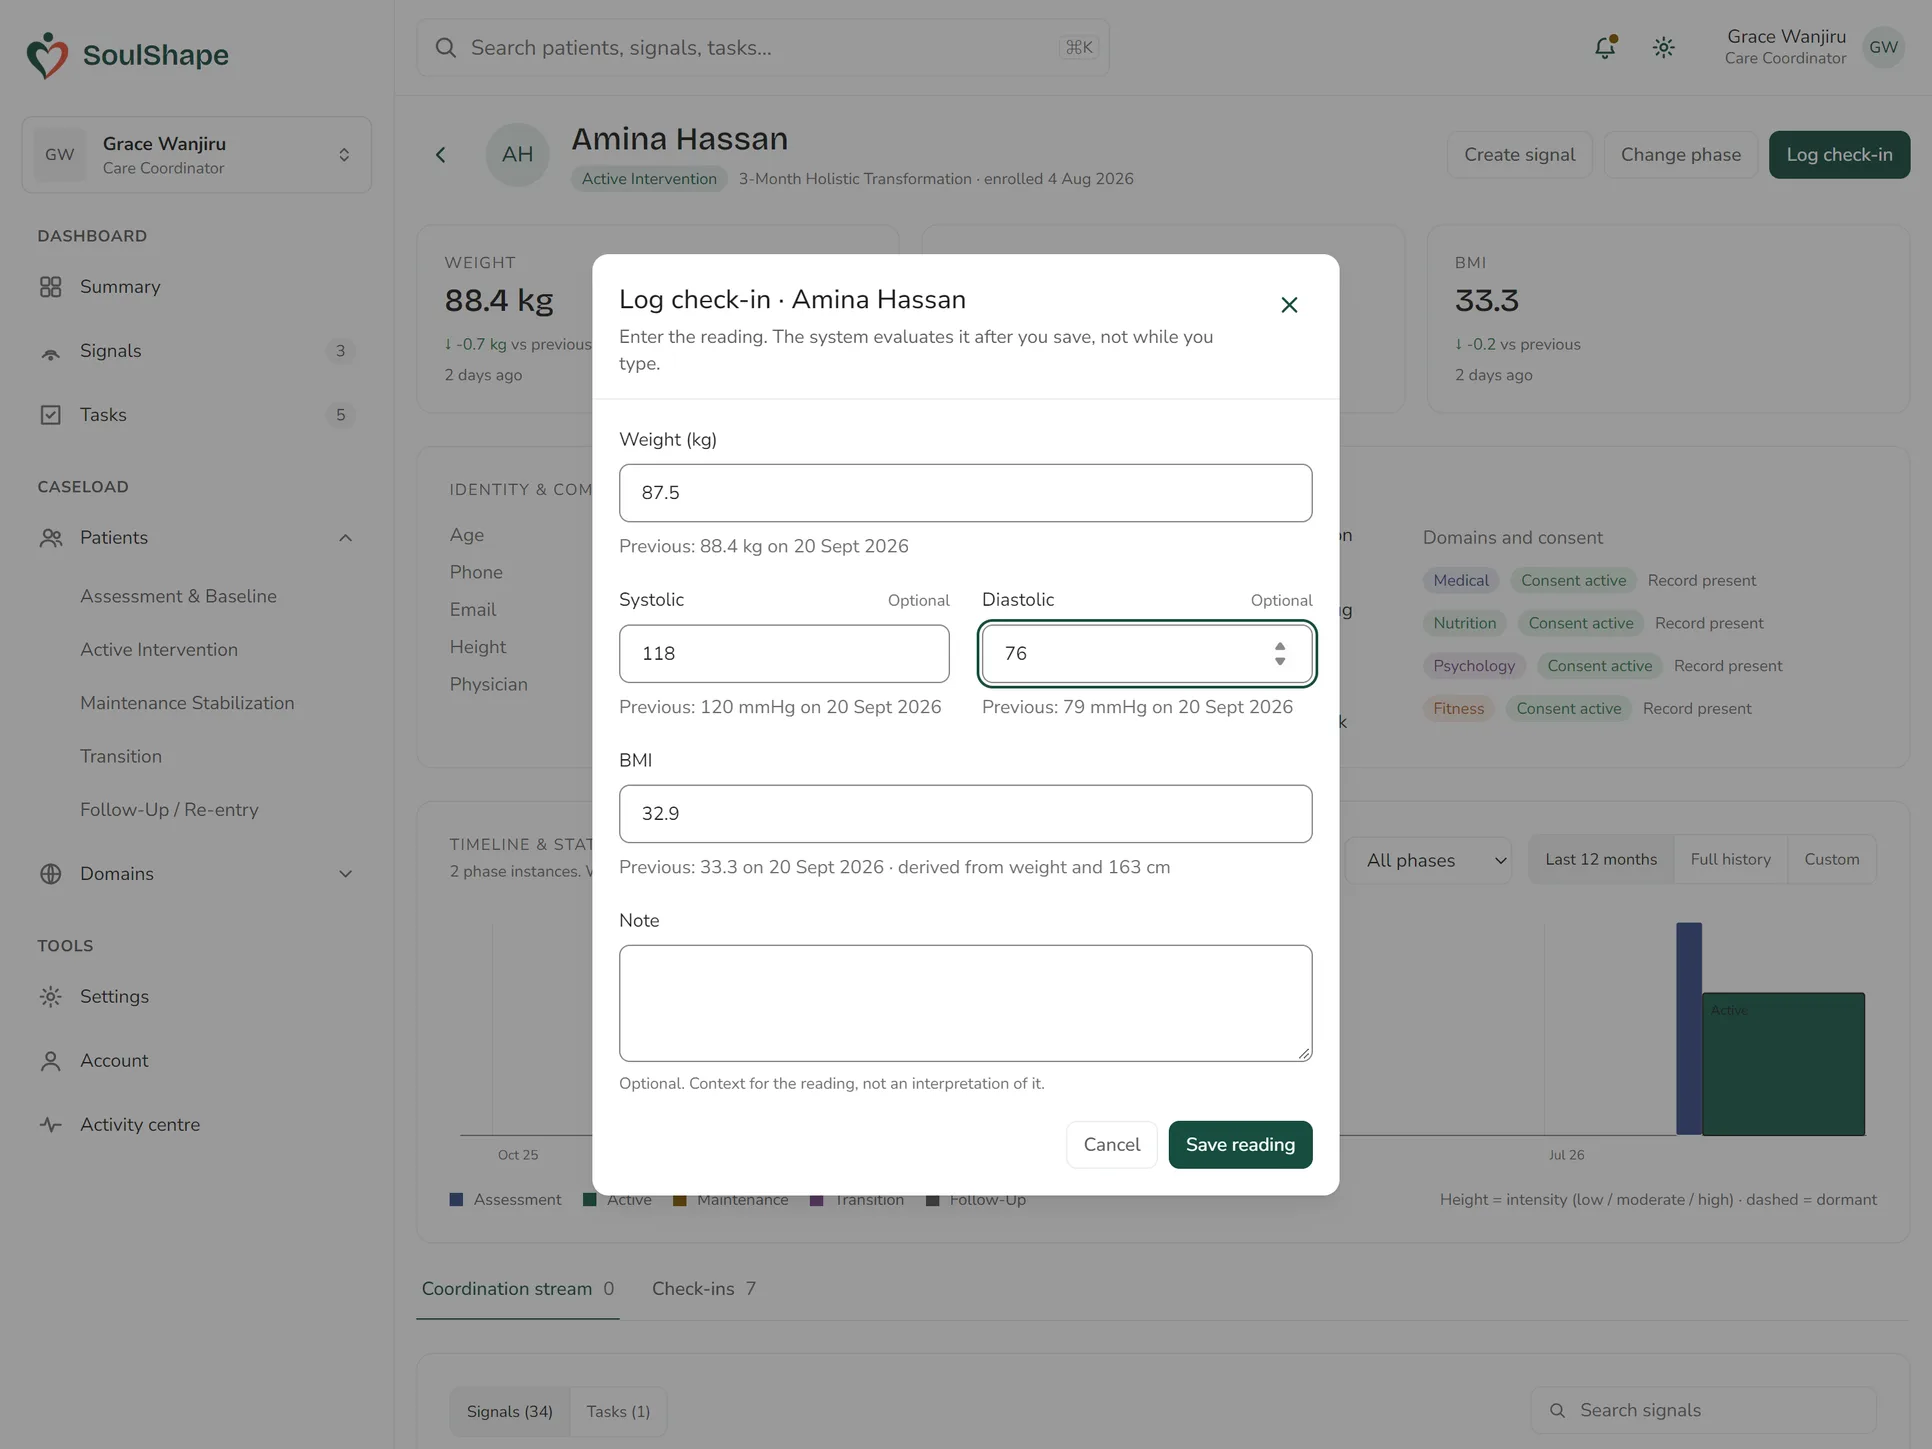
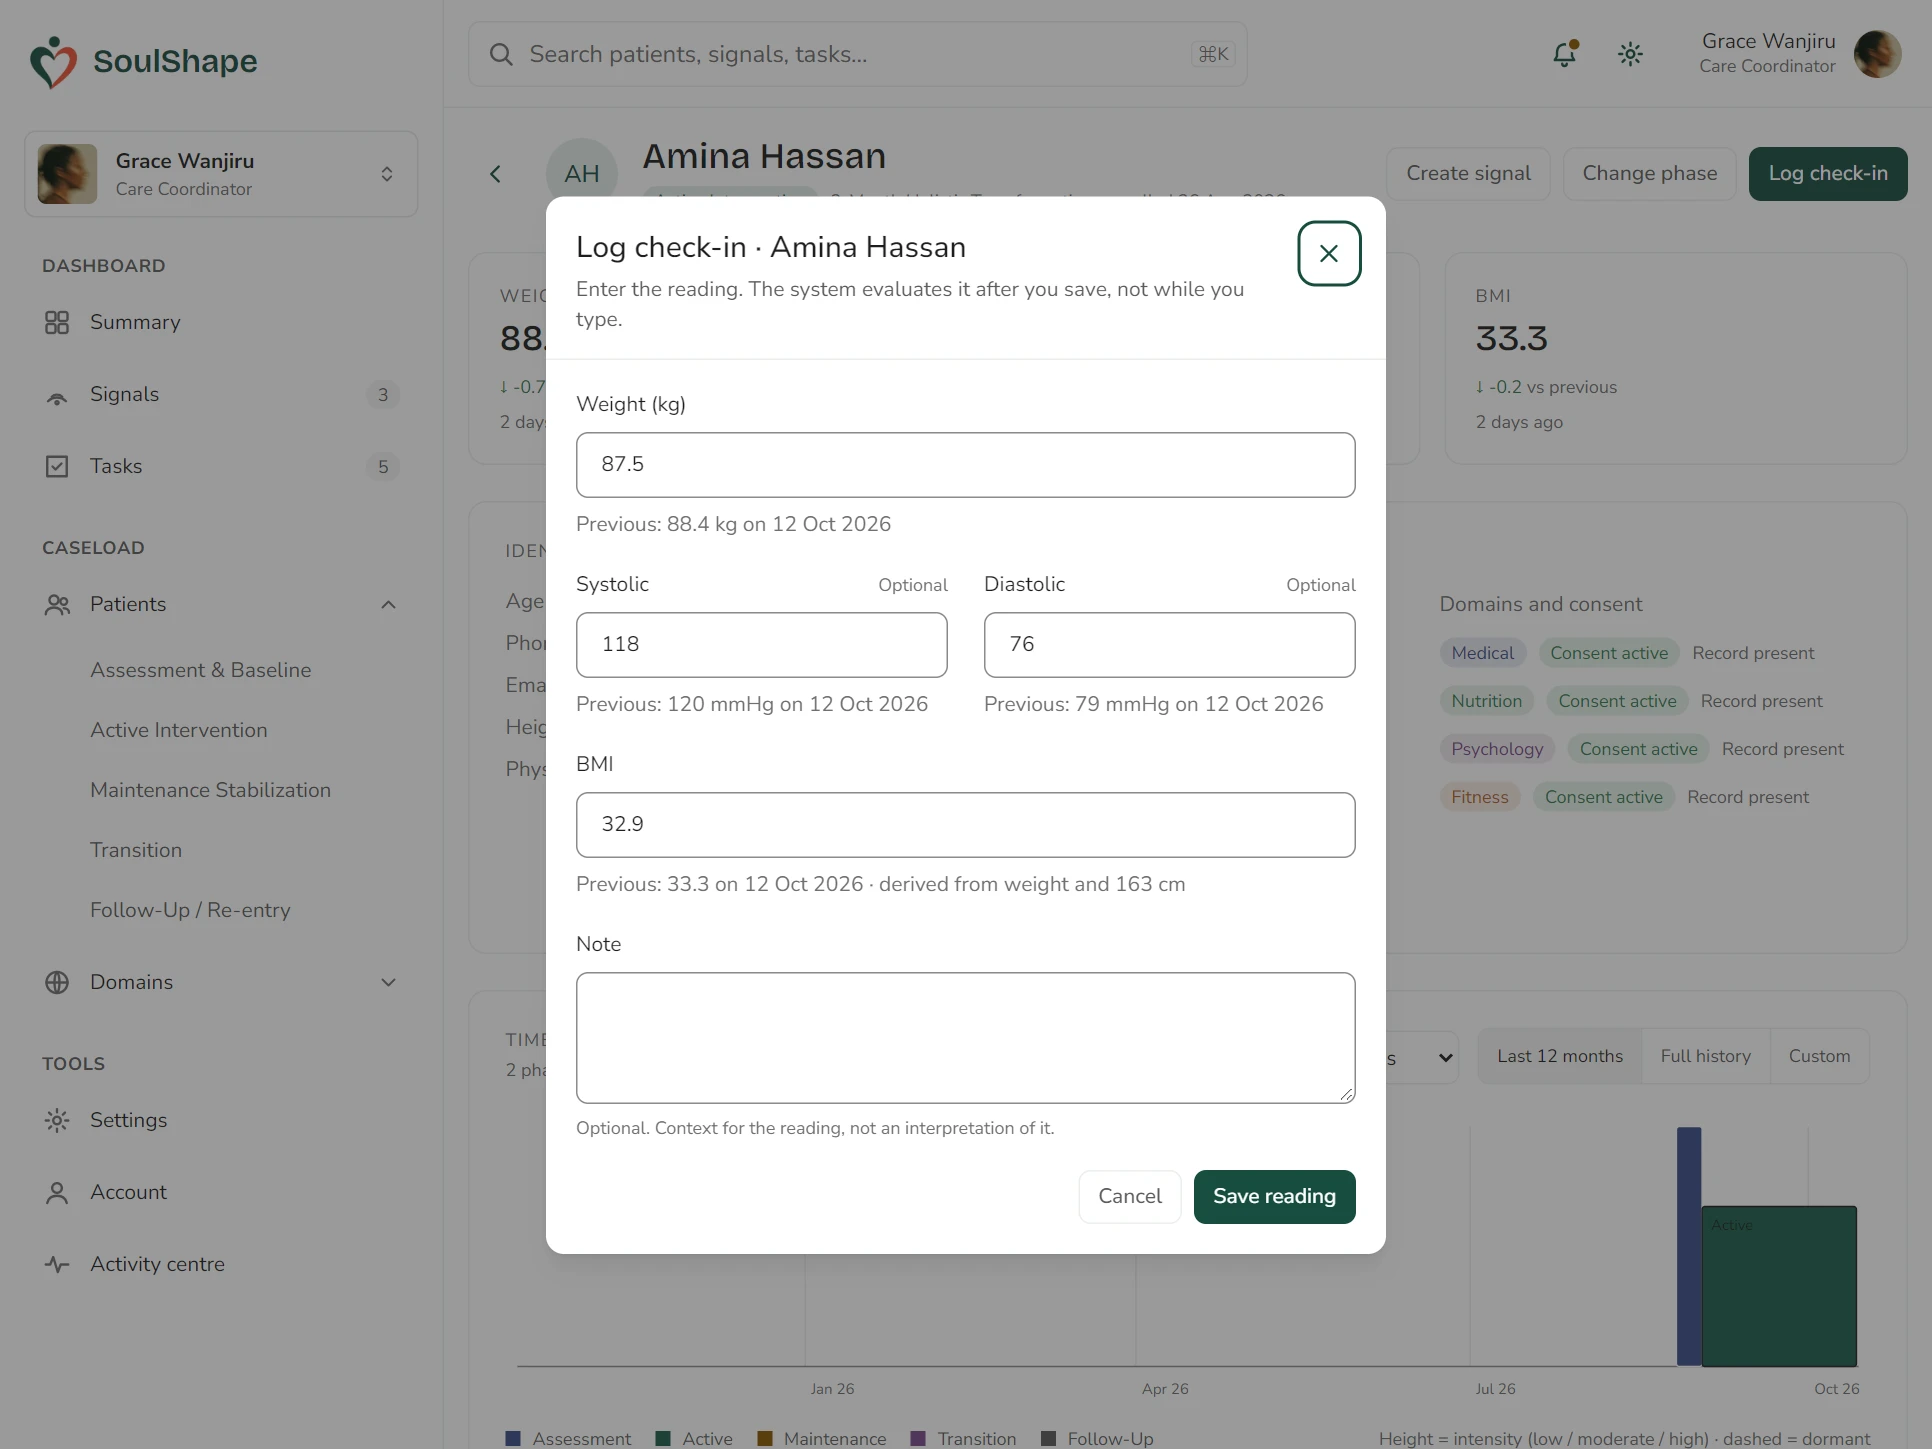
The check-in flow catches up too, and the page follows it
All five frames re-shot by driving the prototype's own form: the record,
the dialog, the reading entered, the evaluation, and the signal written
from it. The dialog takes ?checkin=1, so only the typing and the two
presses had to be done by hand.

The flag offers Route before it offers a destination, which is why the
last frame is reached in two presses rather than one.

The seed has moved on since these were taken, so two figures the page
quotes no longer matched the screens. The previous reading is dated 12
October, not 20 September, and the rate is 2.9 kg per week, not 3.0. The
threshold, the weights and the blood pressure are unchanged.

diff --git a/src/routes/work.soulshape.tsx b/src/routes/work.soulshape.tsx
@@ -497,7 +497,7 @@ const checkIn: WalkthroughStep[] = [
   {
     label: "Saved, and what the system made of it",
     src: flow4,
-    alt: "The reading is saved and the change computed: down 0.9 kg since 20 September. Beneath it the system reports rapid weight loss at 3.0 kg per week against a threshold of 1.5, and says what this means is for the domain to decide.",
+    alt: "The reading is saved and the change computed: down 0.9 kg since 12 October. Beneath it the system reports rapid weight loss at 2.9 kg per week against a threshold of 1.5, and says what this means is for the domain to decide.",
     ...SCREEN,
     hotspot: { x: 65.1, y: 55.2 },
   },

diff --git a/src/data/soulshape.ts b/src/data/soulshape.ts
@@ -321,9 +321,9 @@ export const workingAreas = [
  * typed into a dashboard.
  */
 export const calculation = {
-  previous: { value: "88.4 kg", when: "20 Sept 2026" },
+  previous: { value: "88.4 kg", when: "12 Oct 2026" },
   current: { value: "87.5 kg", when: "today" },
-  change: { value: "−0.9 kg", note: "3.0 kg per week, against a threshold of 1.5" },
+  change: { value: "−0.9 kg", note: "2.9 kg per week, against a threshold of 1.5" },
 };
 
 /*
